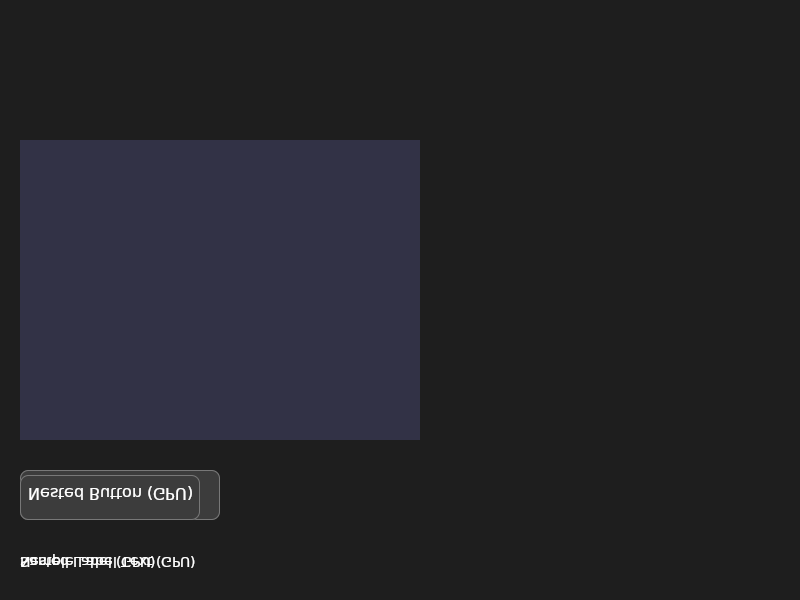
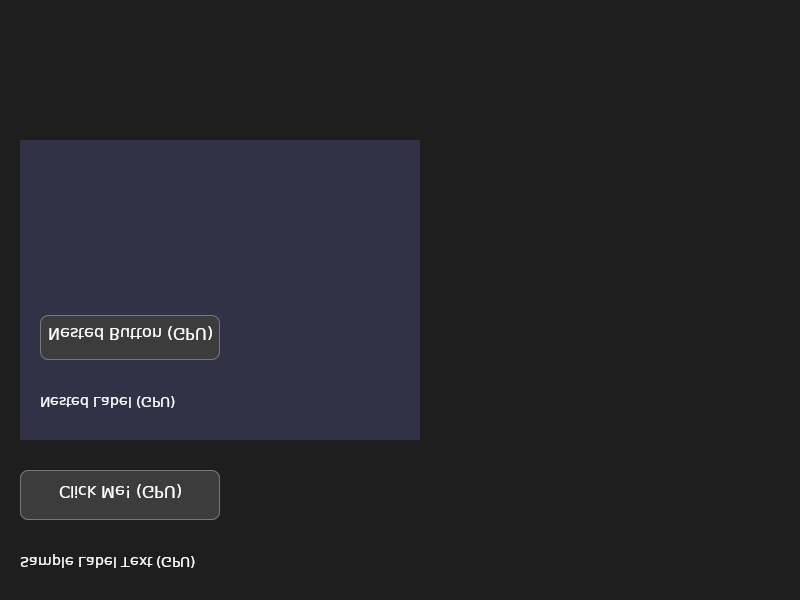
test: fix HiDpiRenderIT pixel readback and headless teardown
- Decode N32 premultiplied bytes as little-endian ARGB so opaque red is
  correctly identified (previous RGB extraction returned the alpha byte)
- Size the root panel to the full logical window before rendering so the
  scaled background covers the whole physical buffer
- Guard setUp/tearDown against GLFW initialization failures: abort via
  JUnit assumptions instead of leaking a null window handle into destroy()
- Clarify raster surface comments (Skija raster rows are always top-down)

diff --git a/src/test/java/com/glyphui/integration/HiDpiRenderIT.java b/src/test/java/com/glyphui/integration/HiDpiRenderIT.java
@@ -29,13 +29,19 @@ public class HiDpiRenderIT {
     @BeforeEach
     public void setUp() {
         app = new Application();
-        boolean initialized = app.init("HiDPI IT", 400, 300, true);
+        boolean initialized = false;
+        try {
+            initialized = app.init("HiDPI IT", 400, 300, true);
+        } catch (Throwable t) {
+            // GLFW/native libraries unavailable in this environment
+            Assumptions.abort("GLFW not available (headless environment); skipping test: " + t);
+        }
         Assumptions.assumeTrue(initialized, "GLFW not available (headless environment); skipping test");
     }
 
     @AfterEach
     public void tearDown() {
-        if (app != null) {
+        if (app != null && app.getWindow() != null) {
             app.destroy();
         }
     }
@@ -54,8 +60,11 @@ public class HiDpiRenderIT {
             byte[] px = new byte[buf.remaining()];
             buf.get(px);
             int off = (physY * w + physX) * 4;
-            int r = px[off] & 0xFF, g = px[off + 1] & 0xFF, b = px[off + 2] & 0xFF;
-            return (r << 16) | (g << 8) | b;
+            // N32 premultiplied on little-endian JVMs: bytes are [B, G, R, A].
+            // Read as a little-endian ARGB int so 0xFFFF0000 == opaque red.
+            int argb = (px[off] & 0xFF) | ((px[off + 1] & 0xFF) << 8)
+                     | ((px[off + 2] & 0xFF) << 16) | ((px[off + 3] & 0xFF) << 24);
+            return argb;
         } finally {
             full.close();
         }
@@ -74,10 +83,13 @@ public class HiDpiRenderIT {
         root.setBackgroundColor(0xFFFF0000); // opaque red, logical 400x300
 
         // Simulate a 2.0x HiDPI display on the raster path: physical
-        // framebuffer = logical * 2.
+        // framebuffer = logical * 2. Grow the root panel to the full logical
+        // window size so its background covers every logical pixel.
         app.getWindow().setContentScale(2.0f, 2.0f);
         app.getWindow().setSizes(app.getWindow().getWidth(), app.getWindow().getHeight(),
                 app.getWindow().getWidth() * 2, app.getWindow().getHeight() * 2);
+        root.setWidth(app.getWindow().getWidth());
+        root.setHeight(app.getWindow().getHeight());
         app.recreateRasterSurfaceForTesting();
 
         Canvas wrapper = app.getCanvas();
@@ -86,7 +98,8 @@ public class HiDpiRenderIT {
 
         app.renderFrame();
 
-        // Inside the scaled region: logical (10,10) -> physical (20,20) is red
+        // Inside the scaled region: logical (10,10) -> physical (20,20) is red.
+        // The bitmap stores premultiplied RGBA; extract RGB from bytes 1..3.
         int inside = readPixel(wrapper, 20, 20);
         assertEquals(0xFF0000, inside & 0xFFFFFF,
                 "Canvas.scale(2,2) must map logical drawing to physical pixels");

diff --git a/src/main/java/com/glyphui/core/Application.java b/src/main/java/com/glyphui/core/Application.java
@@ -245,8 +245,10 @@ public class Application {
         int logicalWidth = window.getWidth();
         int logicalHeight = window.getHeight();
 
-        // Create raster surface at physical resolution (no OpenGL context needed)
-        surface = Surface.makeRaster(ImageInfo.makeN32Premul(fbWidth, fbHeight));
+        // Create raster surface at physical resolution (no OpenGL context needed).
+        // Skija raster surfaces always store rows top-to-bottom, so pixel
+        // sampling matches the UI coordinate system without any flip.
+        surface = Surface.makeRasterN32Premul(fbWidth, fbHeight);
         
         if (surface == null) {
             throw new RuntimeException("Failed to create raster surface");
